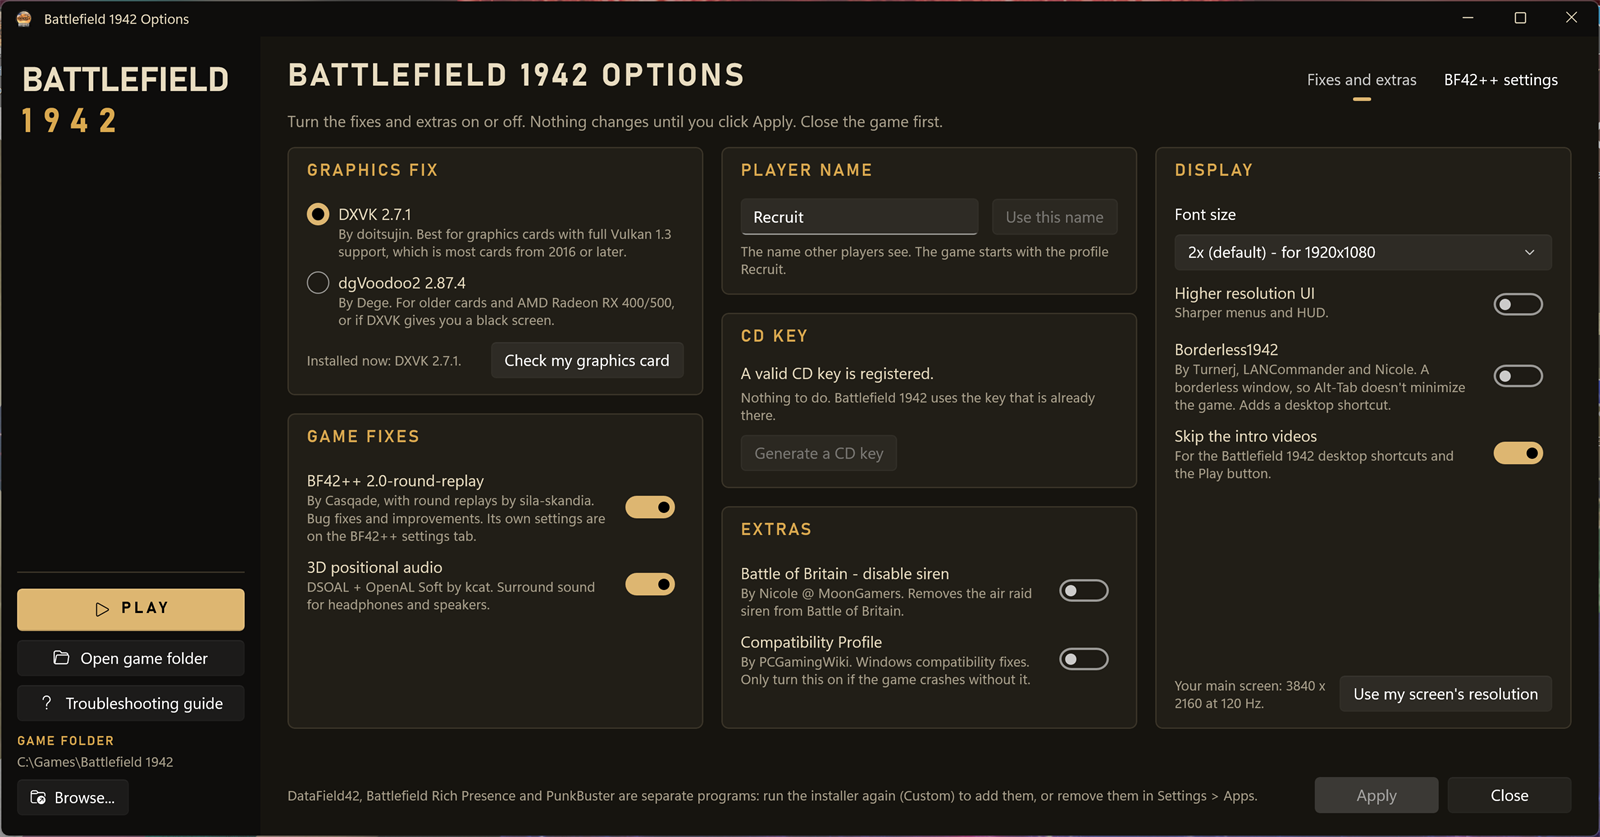
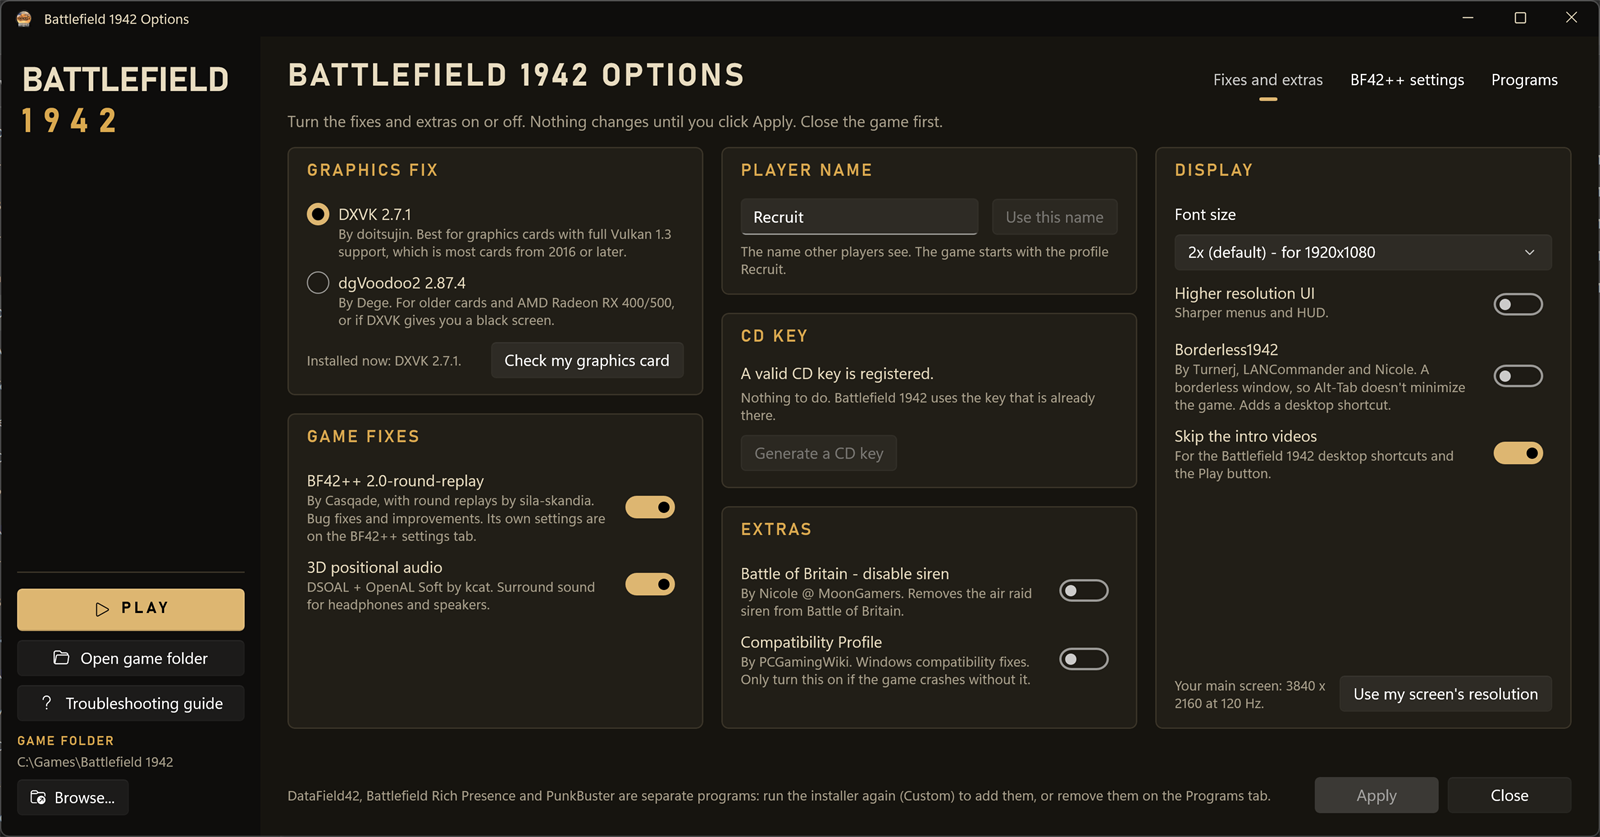
New screenshots with the Programs tab: the installed copy's tab bar, and its Programs tab

diff --git a/README.md b/README.md
@@ -10,6 +10,8 @@ It also works **on its own**, with Battlefield 1942 folders that BF1942-Installe
 
 ![The BF42++ settings tab: HUD, chat and console, 3D map markers, controls, performance, and graphics and files, with the explanation of Smoother gameplay showing](docs/screenshot-bf42pp.png)
 
+![The Programs tab in the copy Setup installs: the DirectX runtime, DirectPlay, Battlefield Rich Presence, the Visual C++ Redistributable, DataField42 and PunkBuster, each with what is installed now, and what running the installer again adds](docs/screenshot-programs-installed.png)
+
 ---
 
 ## What it does
@@ -72,7 +74,7 @@ An extra that is on already in a folder with no original to go back to (for exam
 
 The third tab, **Programs**, has a card for each of the other things Setup's components page offers, with what is installed now and **Install** (or **Repair**, **Update**, **Turn on**) and **Remove**. In the copy Setup installs it removes the separate programs picked during install, and turns DirectPlay on; adding a program, or repairing one, is done by running Setup again (Custom), which the card says. A standalone copy also has their installers, in `Programs` next to the exe, with `programs.json` naming each one's file and version, so it installs them too. `Programs.cs` does what Setup and its uninstaller do (`installer\BF1942-Installer.iss` in BF1942-Installer), and logs it to `Options.log`:
 
-![The Programs tab: the DirectX runtime, DirectPlay, Battlefield Rich Presence, the Visual C++ Redistributable, DataField42 and PunkBuster, each with what is installed now and its buttons](docs/screenshot-programs.png)
+![The Programs tab of a standalone copy, with the installers: the DirectX runtime, DirectPlay, Battlefield Rich Presence, the Visual C++ Redistributable, DataField42 and PunkBuster, each with what is installed now and its buttons](docs/screenshot-programs.png)
 
 | Program | Install | Remove |
 |---|---|---|
